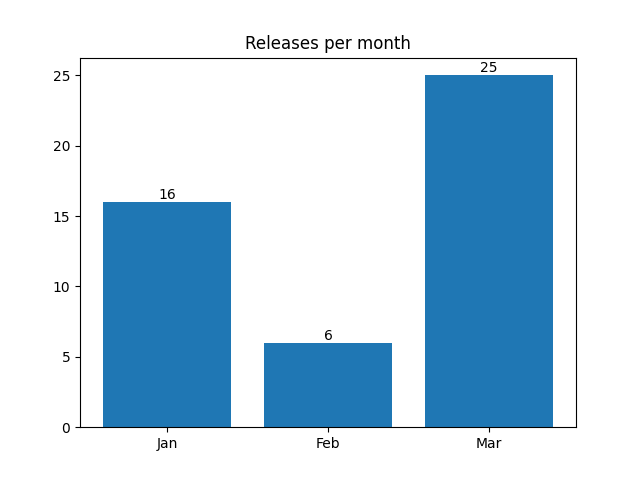
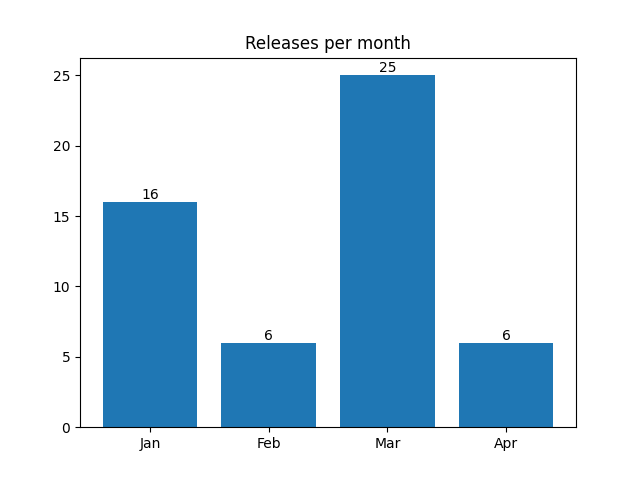
Apply automatic changes

diff --git a/docs/analytics.html b/docs/analytics.html
@@ -82,6 +82,11 @@ td .material-icons { display:inline-flex; vertical-align: top; font-size:1.1rem;
 							<td>15</td>
 							<td>11</td>
 						</tr>
+						<tr>
+							<td>Apr</td>
+							<td>0</td>
+							<td>0</td>
+						</tr>
 					</table>
 				</div>
 				<div class="col">
@@ -171,19 +176,19 @@ td .material-icons { display:inline-flex; vertical-align: top; font-size:1.1rem;
 				<tr>
 					<td>1</td>
 					<td>
-						<a href="http://github.com/notofonts/armenian/issues">armenian</a>,  						<a href="http://github.com/notofonts/bamum/issues">bamum</a>,  						<a href="http://github.com/notofonts/canadian-aboriginal/issues">canadian-aboriginal</a>,  						<a href="http://github.com/notofonts/chakma/issues">chakma</a>,  						<a href="http://github.com/notofonts/chorasmian/issues">chorasmian</a>,  						<a href="http://github.com/notofonts/cuneiform/issues">cuneiform</a>,  						<a href="http://github.com/notofonts/deseret/issues">deseret</a>,  						<a href="http://github.com/notofonts/dogra/issues">dogra</a>,  						<a href="http://github.com/notofonts/duployan/issues">duployan</a>,  						<a href="http://github.com/notofonts/elbasan/issues">elbasan</a>,  						<a href="http://github.com/notofonts/ethiopic/issues">ethiopic</a>,  						<a href="http://github.com/notofonts/glagolitic/issues">glagolitic</a>,  						<a href="http://github.com/notofonts/hanunoo/issues">hanunoo</a>,  						<a href="http://github.com/notofonts/kharoshthi/issues">kharoshthi</a>,  						<a href="http://github.com/notofonts/khitan-small-script/issues">khitan-small-script</a>,  						<a href="http://github.com/notofonts/khudawadi/issues">khudawadi</a>,  						<a href="http://github.com/notofonts/lydian/issues">lydian</a>,  						<a href="http://github.com/notofonts/meetei-mayek/issues">meetei-mayek</a>,  						<a href="http://github.com/notofonts/miao/issues">miao</a>,  						<a href="http://github.com/notofonts/mongolian/issues">mongolian</a>,  						<a href="http://github.com/notofonts/multani/issues">multani</a>,  						<a href="http://github.com/notofonts/music/issues">music</a>,  						<a href="http://github.com/notofonts/nko/issues">nko</a>,  						<a href="http://github.com/notofonts/old-italic/issues">old-italic</a>,  						<a href="http://github.com/notofonts/old-turkic/issues">old-turkic</a>,  						<a href="http://github.com/notofonts/oriya/issues">oriya</a>,  						<a href="http://github.com/notofonts/pahawh-hmong/issues">pahawh-hmong</a>,  						<a href="http://github.com/notofonts/phags-pa/issues">phags-pa</a>,  						<a href="http://github.com/notofonts/rejang/issues">rejang</a>,  						<a href="http://github.com/notofonts/saurashtra/issues">saurashtra</a>,  						<a href="http://github.com/notofonts/sogdian/issues">sogdian</a>,  						<a href="http://github.com/notofonts/sundanese/issues">sundanese</a>,  						<a href="http://github.com/notofonts/tai-le/issues">tai-le</a>,  						<a href="http://github.com/notofonts/tai-tham/issues">tai-tham</a>,  						<a href="http://github.com/notofonts/takri/issues">takri</a>,  						<a href="http://github.com/notofonts/tangsa/issues">tangsa</a>,  						<a href="http://github.com/notofonts/tangut/issues">tangut</a> 
+						<a href="http://github.com/notofonts/armenian/issues">armenian</a>,  						<a href="http://github.com/notofonts/bamum/issues">bamum</a>,  						<a href="http://github.com/notofonts/canadian-aboriginal/issues">canadian-aboriginal</a>,  						<a href="http://github.com/notofonts/chakma/issues">chakma</a>,  						<a href="http://github.com/notofonts/chorasmian/issues">chorasmian</a>,  						<a href="http://github.com/notofonts/cuneiform/issues">cuneiform</a>,  						<a href="http://github.com/notofonts/deseret/issues">deseret</a>,  						<a href="http://github.com/notofonts/dogra/issues">dogra</a>,  						<a href="http://github.com/notofonts/duployan/issues">duployan</a>,  						<a href="http://github.com/notofonts/elbasan/issues">elbasan</a>,  						<a href="http://github.com/notofonts/ethiopic/issues">ethiopic</a>,  						<a href="http://github.com/notofonts/glagolitic/issues">glagolitic</a>,  						<a href="http://github.com/notofonts/hanunoo/issues">hanunoo</a>,  						<a href="http://github.com/notofonts/kharoshthi/issues">kharoshthi</a>,  						<a href="http://github.com/notofonts/khitan-small-script/issues">khitan-small-script</a>,  						<a href="http://github.com/notofonts/khudawadi/issues">khudawadi</a>,  						<a href="http://github.com/notofonts/lydian/issues">lydian</a>,  						<a href="http://github.com/notofonts/meetei-mayek/issues">meetei-mayek</a>,  						<a href="http://github.com/notofonts/miao/issues">miao</a>,  						<a href="http://github.com/notofonts/mongolian/issues">mongolian</a>,  						<a href="http://github.com/notofonts/music/issues">music</a>,  						<a href="http://github.com/notofonts/nko/issues">nko</a>,  						<a href="http://github.com/notofonts/old-italic/issues">old-italic</a>,  						<a href="http://github.com/notofonts/old-turkic/issues">old-turkic</a>,  						<a href="http://github.com/notofonts/oriya/issues">oriya</a>,  						<a href="http://github.com/notofonts/pahawh-hmong/issues">pahawh-hmong</a>,  						<a href="http://github.com/notofonts/phags-pa/issues">phags-pa</a>,  						<a href="http://github.com/notofonts/rejang/issues">rejang</a>,  						<a href="http://github.com/notofonts/saurashtra/issues">saurashtra</a>,  						<a href="http://github.com/notofonts/sogdian/issues">sogdian</a>,  						<a href="http://github.com/notofonts/sundanese/issues">sundanese</a>,  						<a href="http://github.com/notofonts/tai-le/issues">tai-le</a>,  						<a href="http://github.com/notofonts/tai-tham/issues">tai-tham</a>,  						<a href="http://github.com/notofonts/takri/issues">takri</a>,  						<a href="http://github.com/notofonts/tangsa/issues">tangsa</a>,  						<a href="http://github.com/notofonts/tangut/issues">tangut</a> 
 					</td>
 				</tr>
 				<tr>
 					<td>2</td>
 					<td>
-						<a href="http://github.com/notofonts/brahmi/issues">brahmi</a>,  						<a href="http://github.com/notofonts/coptic/issues">coptic</a>,  						<a href="http://github.com/notofonts/georgian/issues">georgian</a>,  						<a href="http://github.com/notofonts/grantha/issues">grantha</a>,  						<a href="http://github.com/notofonts/khojki/issues">khojki</a>,  						<a href="http://github.com/notofonts/old-hungarian-ui/issues">old-hungarian-ui</a>,  						<a href="http://github.com/notofonts/sign-writing/issues">sign-writing</a>,  						<a href="http://github.com/notofonts/tagalog/issues">tagalog</a>,  						<a href="http://github.com/notofonts/tamil/issues">tamil</a> 
+						<a href="http://github.com/notofonts/brahmi/issues">brahmi</a>,  						<a href="http://github.com/notofonts/coptic/issues">coptic</a>,  						<a href="http://github.com/notofonts/georgian/issues">georgian</a>,  						<a href="http://github.com/notofonts/grantha/issues">grantha</a>,  						<a href="http://github.com/notofonts/multani/issues">multani</a>,  						<a href="http://github.com/notofonts/old-hungarian-ui/issues">old-hungarian-ui</a>,  						<a href="http://github.com/notofonts/sign-writing/issues">sign-writing</a>,  						<a href="http://github.com/notofonts/tagalog/issues">tagalog</a>,  						<a href="http://github.com/notofonts/tamil/issues">tamil</a> 
 					</td>
 				</tr>
 				<tr>
 					<td>3</td>
 					<td>
-						<a href="http://github.com/notofonts/ahom/issues">ahom</a>,  						<a href="http://github.com/notofonts/balinese/issues">balinese</a>,  						<a href="http://github.com/notofonts/manichaean/issues">manichaean</a>,  						<a href="http://github.com/notofonts/nandinagari/issues">nandinagari</a>,  						<a href="http://github.com/notofonts/sharada/issues">sharada</a>,  						<a href="http://github.com/notofonts/siddham/issues">siddham</a>,  						<a href="http://github.com/notofonts/telugu/issues">telugu</a>,  						<a href="http://github.com/notofonts/thai/issues">thai</a>,  						<a href="http://github.com/notofonts/tifinagh/issues">tifinagh</a> 
+						<a href="http://github.com/notofonts/ahom/issues">ahom</a>,  						<a href="http://github.com/notofonts/balinese/issues">balinese</a>,  						<a href="http://github.com/notofonts/khojki/issues">khojki</a>,  						<a href="http://github.com/notofonts/manichaean/issues">manichaean</a>,  						<a href="http://github.com/notofonts/nandinagari/issues">nandinagari</a>,  						<a href="http://github.com/notofonts/sharada/issues">sharada</a>,  						<a href="http://github.com/notofonts/siddham/issues">siddham</a>,  						<a href="http://github.com/notofonts/telugu/issues">telugu</a>,  						<a href="http://github.com/notofonts/thai/issues">thai</a>,  						<a href="http://github.com/notofonts/tifinagh/issues">tifinagh</a> 
 					</td>
 				</tr>
 				<tr>
@@ -304,6 +309,8 @@ td .material-icons { display:inline-flex; vertical-align: top; font-size:1.1rem;
 
 									<a href="http://github.com/notofonts/ahom/issues">ahom</a>: 3, 
 
+									<a href="http://github.com/notofonts/khojki/issues">khojki</a>: 3, 
+
 									<a href="http://github.com/notofonts/sharada/issues">sharada</a>: 3, 
 
 									<a href="http://github.com/notofonts/siddham/issues">siddham</a>: 3, 
@@ -312,7 +319,7 @@ td .material-icons { display:inline-flex; vertical-align: top; font-size:1.1rem;
 
 									<a href="http://github.com/notofonts/coptic/issues">coptic</a>: 2, 
 
-									<a href="http://github.com/notofonts/khojki/issues">khojki</a>: 2, 
+									<a href="http://github.com/notofonts/multani/issues">multani</a>: 2, 
 
 									<a href="http://github.com/notofonts/sign-writing/issues">sign-writing</a>: 2, 
 
@@ -333,8 +340,6 @@ td .material-icons { display:inline-flex; vertical-align: top; font-size:1.1rem;
 									<a href="http://github.com/notofonts/miao/issues">miao</a>: 1, 
 
 									<a href="http://github.com/notofonts/mongolian/issues">mongolian</a>: 1, 
-
-									<a href="http://github.com/notofonts/multani/issues">multani</a>: 1, 
 
 									<a href="http://github.com/notofonts/music/issues">music</a>: 1, 
 
@@ -526,6 +531,28 @@ td .material-icons { display:inline-flex; vertical-align: top; font-size:1.1rem;
 									<li><a href="https://github.com/notofonts/telugu/releases/tag/NotoSansTelugu-v2.004">NotoSansTelugu-v2.004</a></li>
 									<li><a href="https://github.com/notofonts/ottoman-siyaq-numbers/releases/tag/NotoSerifOttomanSiyaq-v1.005">NotoSerifOttomanSiyaq-v1.005</a></li>
 									<li><a href="https://github.com/notofonts/nag-mundari/releases/tag/NotoSansNagMundari-v1.000">NotoSansNagMundari-v1.000</a></li>
+								</ul>
+							</td>
+						</tr>
+
+						<tr>
+							<td>Apr</td>
+							<td id="month-Apr">
+								<button
+									class="btn btn-link collapsed"
+									data-toggle="collapse"
+									data-target="#month-Apr .releases"
+								>
+									<span class="material-icons"></span>
+									6 releases
+								</button>
+								<ul class="releases collapse">
+									<li><a href="https://github.com/notofonts/latin-greek-cyrillic/releases/tag/NotoSerif-v2.012">NotoSerif-v2.012</a></li>
+									<li><a href="https://github.com/notofonts/latin-greek-cyrillic/releases/tag/NotoSansMono-v2.013">NotoSansMono-v2.013</a></li>
+									<li><a href="https://github.com/notofonts/latin-greek-cyrillic/releases/tag/NotoSerif-v2.011">NotoSerif-v2.011</a></li>
+									<li><a href="https://github.com/notofonts/latin-greek-cyrillic/releases/tag/NotoSansMono-v2.012">NotoSansMono-v2.012</a></li>
+									<li><a href="https://github.com/notofonts/gujarati/releases/tag/NotoSerifGujarati-v2.104">NotoSerifGujarati-v2.104</a></li>
+									<li><a href="https://github.com/notofonts/gujarati/releases/tag/NotoSansGujarati-v2.104">NotoSansGujarati-v2.104</a></li>
 								</ul>
 							</td>
 						</tr>
